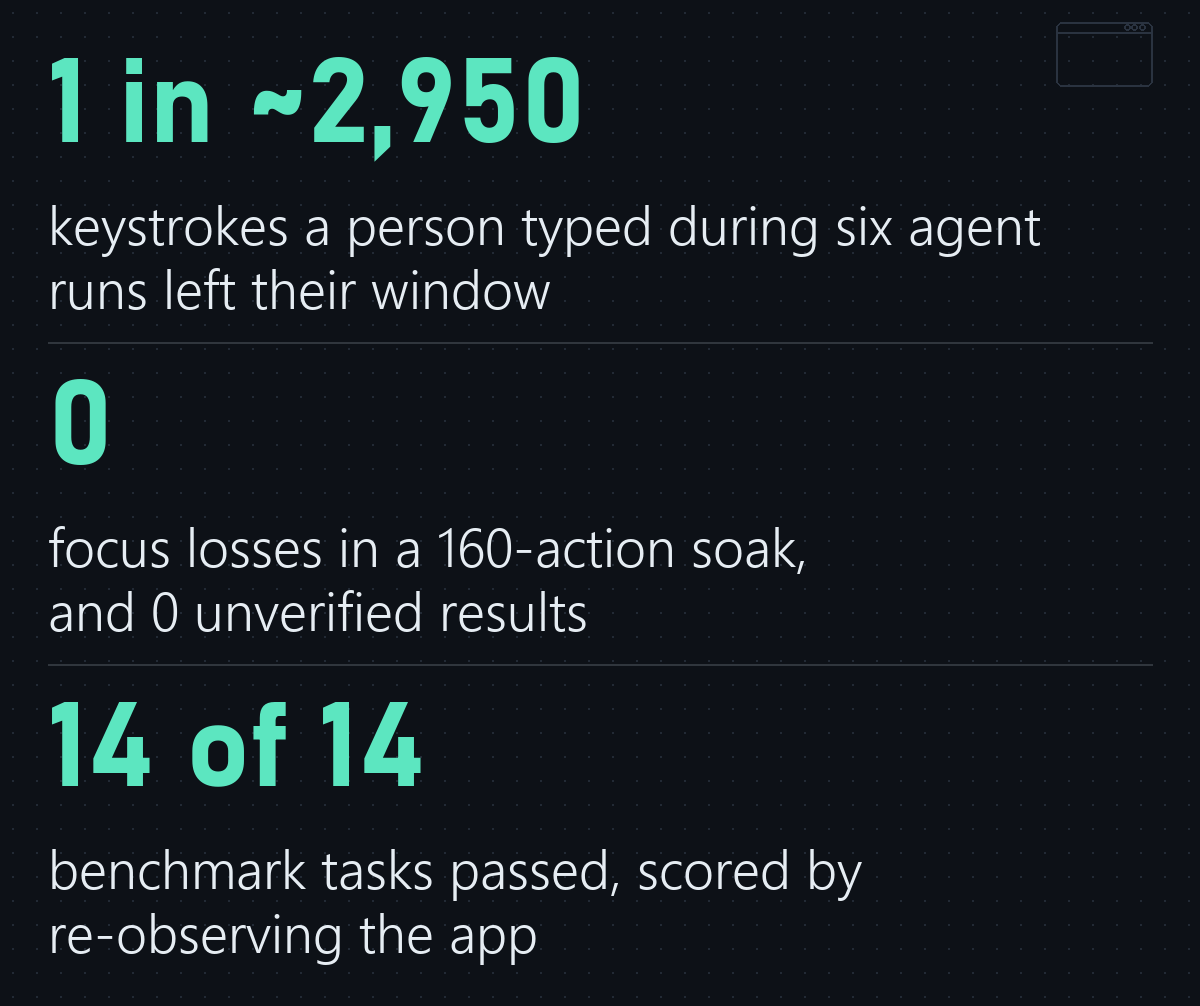
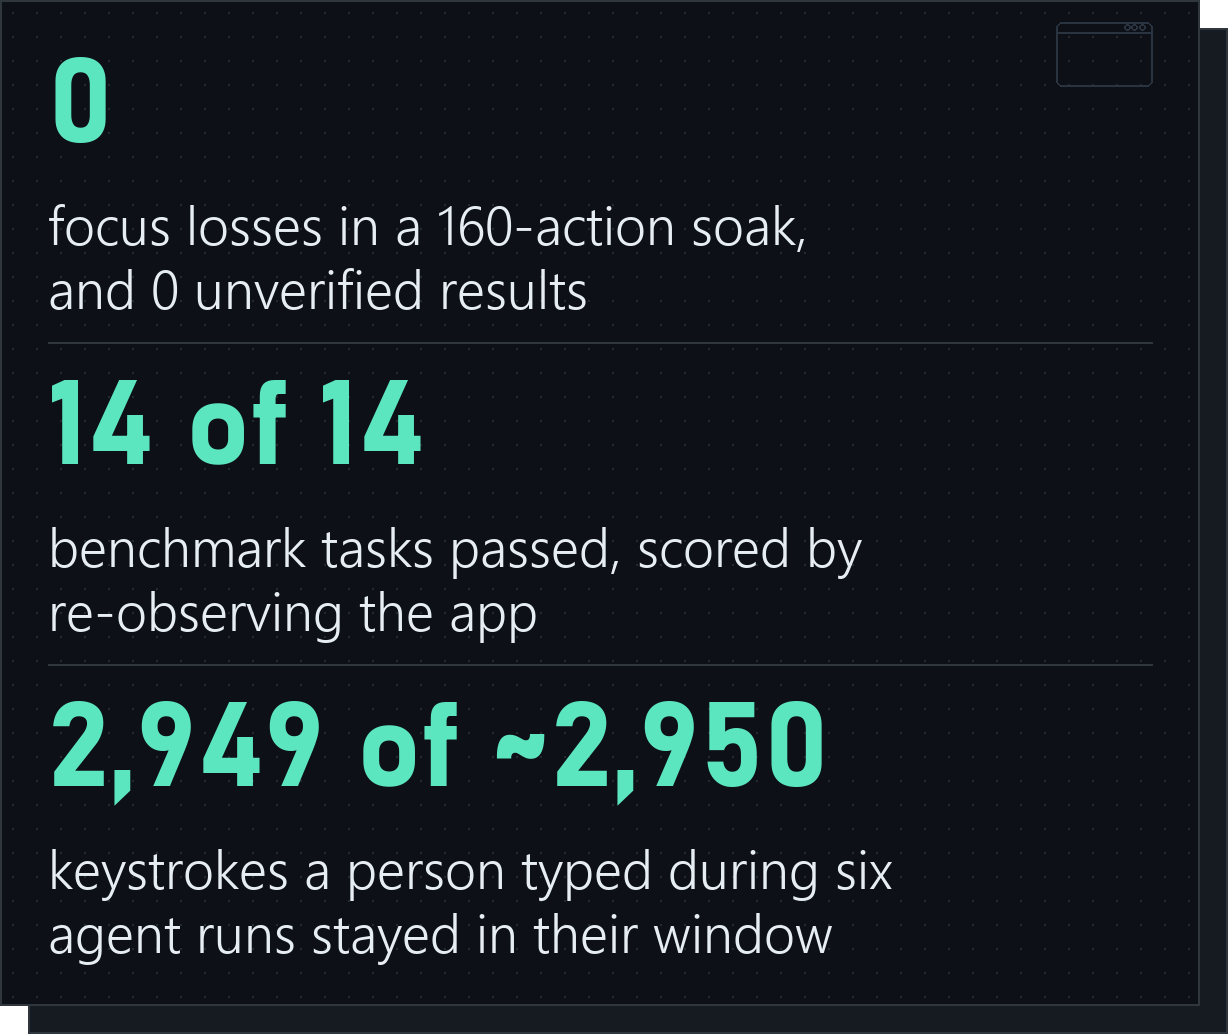
docs(readme): full-width art as stacked windows, loop as stations, jump row

diff --git a/scripts/readme-art.py b/scripts/readme-art.py
@@ -78,6 +78,22 @@ def corner_mark(d, w):
     window_mark(d, w - PAD - 96, 22, 96, 64, width=2)
 
 
+OFFSET = 28  # how far the window behind each panel shows, at 1200px
+
+
+def stacked(panel):
+    """The panel as a window with a second window behind it, offset down and
+    right: the hidden desktop under the one you see. Transparent around the
+    two windows, so the page shows through."""
+    w, h = panel.size
+    out = Image.new("RGBA", (w + OFFSET, h + OFFSET), (0, 0, 0, 0))
+    d = ImageDraw.Draw(out)
+    d.rectangle((OFFSET, OFFSET, w + OFFSET - 1, h + OFFSET - 1), fill="#161b22", outline=BORDER, width=2)
+    out.paste(panel.convert("RGBA"), (0, 0))
+    d.rectangle((0, 0, w - 1, h - 1), outline=BORDER, width=2)
+    return out
+
+
 def glyph(size):
     """The ghost from assets/icon.png, in white, without its square tile."""
     icon = Image.open(ROOT / "assets/icon.png").convert("RGBA").resize((size, size), Image.LANCZOS)
@@ -121,14 +137,14 @@ def banner():
         d.text((PAD, y), line, font=f, fill=TEXT)
         y += 76
     d.text((PAD, y + 8), "Every action verified.", font=display(66), fill=GREEN)
-    im.save(ROOT / "assets/banner.png", optimize=True)
+    stacked(im).save(ROOT / "assets/banner.png", optimize=True)
 
 
 def proof():
     rows = [
-        ("1 in ~2,950", ["keystrokes a person typed during six agent", "runs left their window"]),
         ("0", ["focus losses in a 160-action soak,", "and 0 unverified results"]),
         ("14 of 14", ["benchmark tasks passed, scored by", "re-observing the app"]),
+        ("2,949 of ~2,950", ["keystrokes a person typed during six", "agent runs stayed in their window"]),
     ]
     NUM, LINE, GAP = 118, 64, 56
     probe = ImageDraw.Draw(Image.new("RGB", (1, 1)))
@@ -150,7 +166,7 @@ def proof():
             d.text((PAD, y), line, font=lf, fill=TEXT, anchor="la")
             y += LINE
         top += row_h + GAP
-    im.save(ROOT / "assets/proof.png", optimize=True)
+    stacked(im).save(ROOT / "assets/proof.png", optimize=True)
 
 
 def title_inset():
@@ -234,9 +250,29 @@ def title_inset():
             for xx in range(w):
                 if o[xx, yy] == bg:
                     o[xx, yy] = g[xx, yy]
-        frames.append(out)
-    frames[0].save(ROOT / "assets/demo-stacked-title.gif", save_all=True, append_images=frames[1:],
-                   duration=durations, loop=0, optimize=True)
+        big = out.resize((out.width * 2, out.height * 2), Image.NEAREST)
+        frames.append(stacked(big))
+    # GIF has one transparent palette entry: mark the see-through corners with
+    # a colour no frame uses, then make that entry transparent.
+    # One palette for every frame, so that entry has the same index in each.
+    KEY = (255, 0, 255)
+    flats = []
+    for fr in frames:
+        flat = Image.new("RGB", fr.size, KEY)
+        flat.paste(fr, (0, 0), fr)
+        flats.append(flat)
+    sheet = Image.new("RGB", (flats[0].width, sum(f.height for f in flats)))
+    y = 0
+    for flat in flats:
+        sheet.paste(flat, (0, y))
+        y += flat.height
+    palette = sheet.quantize(colors=255, method=Image.Quantize.MEDIANCUT, dither=Image.Dither.NONE)
+    pal = palette.getpalette()[:768]
+    key_index = min(range(len(pal) // 3), key=lambda i: sum(abs(pal[i * 3 + k] - KEY[k]) for k in range(3)))
+    assert tuple(pal[key_index * 3:key_index * 3 + 3]) == KEY, "transparency key lost in the palette"
+    paletted = [f.quantize(palette=palette, dither=Image.Dither.NONE) for f in flats]
+    paletted[0].save(ROOT / "assets/demo-stacked-title.gif", save_all=True, append_images=paletted[1:],
+                     duration=durations, loop=0, disposal=2, transparency=key_index, optimize=False)
 
 
 def cta():
@@ -250,26 +286,26 @@ def cta():
 
 
 def loop():
-    """The look, act, confirm loop from "How an agent uses it", as three
-    steps in the same panel language."""
+    """The look, act, confirm loop from "How an agent uses it": three
+    stations on one line, in the same panel language."""
     steps = [("look", "ghost_see"), ("act", "ghost_act"), ("confirm", "verified: true")]
-    H = 300
+    H = 340
     im = textured(W, H)
     d = ImageDraw.Draw(im)
-    gap = 56
-    box_w = (W - 2 * PAD - 2 * gap) // 3
-    word, code = display(58), mono(38)
     corner_mark(d, W)
+    word, code = display(58), mono(38)
+    line_y = 200
+    xs = [PAD + 150 + i * (W - 2 * PAD - 300) // 2 for i in range(3)]
+    d.line((xs[0], line_y, xs[2], line_y), fill=BORDER, width=4)
     for i, (label, call) in enumerate(steps):
-        x = PAD + i * (box_w + gap)
-        d.rounded_rectangle((x, 60, x + box_w, H - 60), radius=18, outline=BORDER, width=3)
-        d.text((x + box_w // 2, 125), label, font=word, fill=TEXT, anchor="mm")
-        d.text((x + box_w // 2, 192), call, font=code, fill=GREEN if i == 2 else "#b1bac4", anchor="mm")
+        x = xs[i]
         if i < 2:
-            ax = x + box_w + 10
-            d.line((ax, H // 2, ax + gap - 22, H // 2), fill=GREEN, width=5)
-            d.polygon([(ax + gap - 20, H // 2 - 12), (ax + gap - 4, H // 2), (ax + gap - 20, H // 2 + 12)], fill=GREEN)
-    im.save(ROOT / "assets/loop.png", optimize=True)
+            mid = (xs[i] + xs[i + 1]) // 2
+            d.polygon([(mid - 14, line_y - 14), (mid + 12, line_y), (mid - 14, line_y + 14)], fill=GREEN)
+        d.ellipse((x - 14, line_y - 14, x + 14, line_y + 14), fill=GREEN if i == 2 else TEXT)
+        d.text((x, line_y - 56), label, font=word, fill=TEXT, anchor="mm")
+        d.text((x, line_y + 62), call, font=code, fill=GREEN if i == 2 else "#b1bac4", anchor="mm")
+    stacked(im).save(ROOT / "assets/loop.png", optimize=True)
 
 
 if __name__ == "__main__":

diff --git a/README.md b/README.md
@@ -1,4 +1,4 @@
-<img src="assets/banner.png" width="520" alt="Ghost: AI agents use the apps on your computer, in the background. Every action verified.">
+<img src="assets/banner.png" width="100%" alt="Ghost: AI agents use the apps on your computer, in the background. Every action verified.">
 
 [![CI](https://github.com/NORTHTEKDevs/ghost/actions/workflows/ci.yml/badge.svg)](https://github.com/NORTHTEKDevs/ghost/actions/workflows/ci.yml)
 [![Release](https://img.shields.io/github/v/release/NORTHTEKDevs/ghost?color=blue)](https://github.com/NORTHTEKDevs/ghost/releases/latest)
@@ -6,16 +6,15 @@
 
 <a href="#quick-start"><img src="assets/quick-start.png" width="160" alt="Quick start"></a>
 
-[Connect](#2-connect-your-client) · [Try it](#3-try-it) · [Safety](#safety-model) · [Docs](docs/README.md)
+Jump to: [Install](#1-install) · [Connect](#2-connect-your-client) · [Try it](#3-try-it) · [Safety](#safety-model) · [Docs](docs/README.md)
 
 <p>
-  <a href="assets/demo.gif"><img src="assets/demo-stacked-title.gif" width="520" alt="The run's result first: an agent's second click on a button returns verified: true, verified_by: title, focus_preserved: true and cursor_preserved: true, Ghost's screenshot shows the window title counting the click (repeated at twice its size under the window), and the user's foreground window recorded 0 changes. Then the run from the start: Ghost launches the app on its hidden desktop, types into a field and clicks a button, each call verified."></a>
+  <a href="assets/demo.gif"><img src="assets/demo-stacked-title.gif" width="100%" alt="The run's result first: an agent's second click on a button returns verified: true, verified_by: title, focus_preserved: true and cursor_preserved: true, Ghost's screenshot shows the window title counting the click (repeated at twice its size under the window), and the user's foreground window recorded 0 changes. Then the run from the start: Ghost launches the app on its hidden desktop, types into a field and clicks a button, each call verified."></a>
 </p>
 
 An agent drives an app on Ghost's hidden desktop, never on your screen; the
-strip under each window is its title bar at twice the size. Recorded, not
-drawn: [recording script](scripts/demo-capture.mjs) ·
-[full-width recording](assets/demo.gif).
+strip under each window is its title bar at twice the size. Click the recording
+for the wide version. Recorded, not drawn: [recording script](scripts/demo-capture.mjs).
 
 Ghost is an [MCP](https://modelcontextprotocol.io) server, a CLI and a local
 REST API. It gives an agent the operating system's own control surface: the
@@ -38,7 +37,7 @@ screen and returns <code>verified:&nbsp;true</code> only when the change really 
 call it cannot complete fails with an error that says why.
 
 <p>
-  <img src="assets/proof.png" width="520" alt="Measured: 1 in about 2,950 keystrokes a person typed during six agent runs left their window. 0 focus losses in a 160-action soak, with 0 unverified results. 14 of 14 benchmark tasks passed when scored by re-observing the app.">
+  <img src="assets/proof.png" width="100%" alt="Measured: 1 in about 2,950 keystrokes a person typed during six agent runs left their window. 0 focus losses in a 160-action soak, with 0 unverified results. 14 of 14 benchmark tasks passed when scored by re-observing the app.">
 </p>
 
 How these were measured: [background mode](docs/background-mode.md#when-an-app-takes-the-foreground-itself)
@@ -274,7 +273,7 @@ ghost verify
 ## How an agent uses it
 
 <p>
-  <img src="assets/loop.png" width="520" alt="The loop: look with ghost_see, act with ghost_act, confirm with verified: true.">
+  <img src="assets/loop.png" width="100%" alt="The loop: look with ghost_see, act with ghost_act, confirm with verified: true.">
 </p>
 
 The loop is look, act, confirm:
